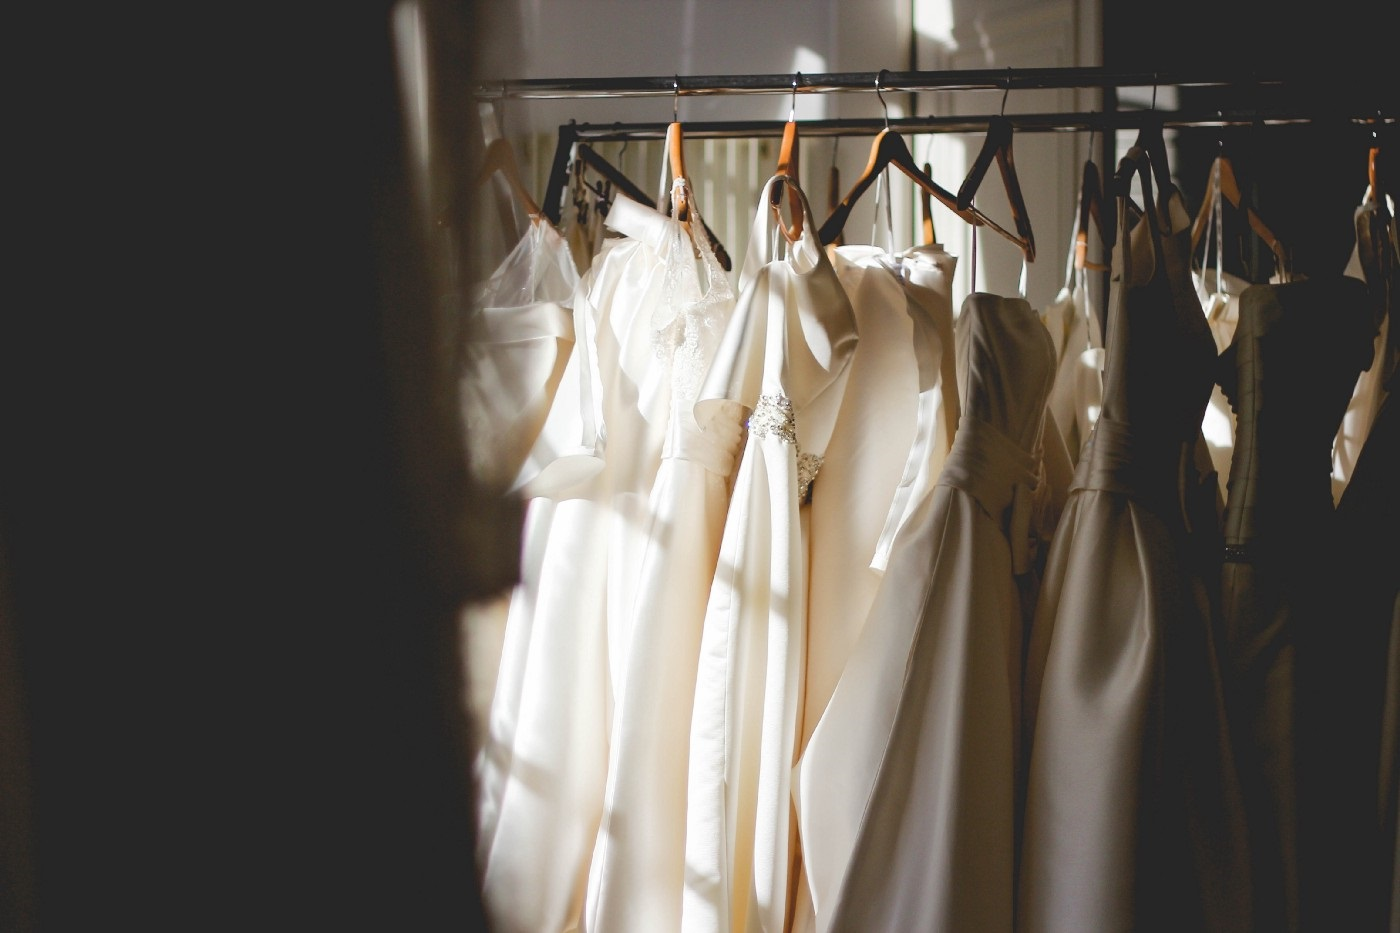
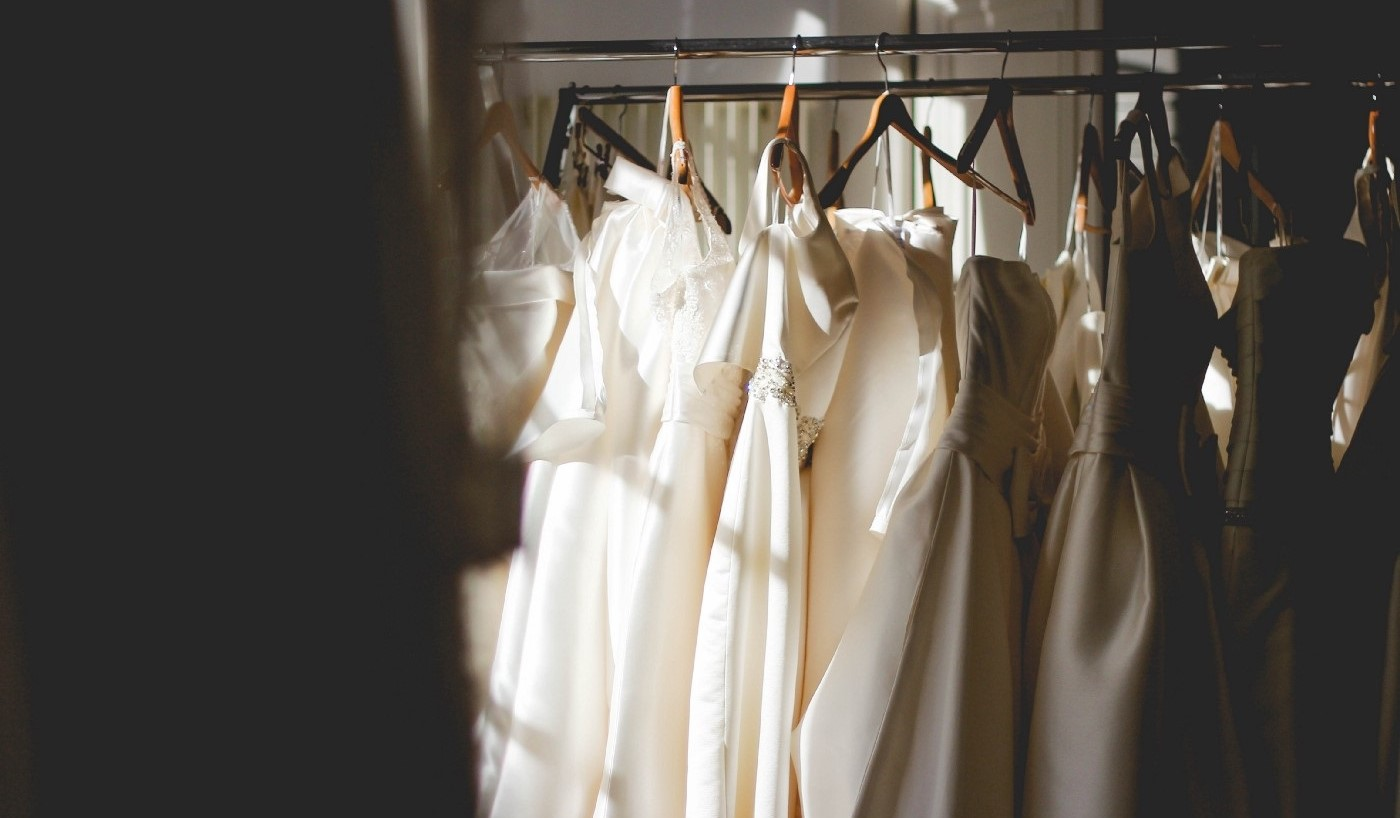
add css to sign up form and resized hero image

diff --git a/style.css b/style.css
@@ -16,13 +16,14 @@ body{
  	min-height: 100vh;
 	display: flex;
 	flex-direction: column;
+	margin: 0;
 }
 
 nav{
 	color: #FAF9F6;
 	display: flex;
 	justify-content: flex-end;
-	margin-right: 24px;
+	margin-right: 64px;
 }
 
 ul{
@@ -32,15 +33,13 @@ ul{
 	list-style-type: none;
 	font-size: 18px;
 }
-
-/* fix bg image*/ 
+ 
 .hero-block{
-	border: solid 1px red;
 	background-color: ##E6DFD9;
 	background-image: url("img/header.jpg");
 	background-size: cover;
 	color: ##28282B;
-	height: 600px;
+	height: 860px;
 	display: flex;
 	flex-direction: row;
 	justify-content: space-between;
@@ -53,16 +52,26 @@ ul{
 	display: flex;
 	flex-direction: column;
 	flex-wrap: wrap;
-	text-align: center;
 	align-items: center;
+}
+
+.hero-left h1{
+	text-align: left;
+	width: 40%;
+	font-size: 48px;
 }
 
 .hero-left p{
 	font-size: 32px;
 	width: 40%;
+	margin: auto 0;
 	text-align: left;
 }
 
+.hero-left button{
+	position: relative;
+	bottom: 15%;
+}
 .shop-here{
 	background: #FAF9F6;
 	font-family: Georgia;
@@ -130,6 +139,11 @@ ul{
 	text-align: left;
 }
 
+.goals-block h2,
+.shop-block h2{
+	padding-left: 62px;
+}
+
 .goals-container{
 	/* border: solid 1px red; */
 	display: flex;
@@ -160,10 +174,7 @@ ul{
 	width: 300px;
 }
 
-.goals-block h2,
-.shop-block h2{
-	padding-left: 62px;
-}
+
 
 /* preview section */
 .shop-block{

diff --git a/index.html b/index.html
@@ -24,16 +24,16 @@
 			<button class="shop-here">shop here</button>
 		</div>
 		<div class="hero-right">
-		
+			<nav>
+				<ul>
+					<li>Shop</li>
+					<li>About Us</li>
+					<li>Contact</li>
+					<li>Cart</li>
+				</ul>
+			</nav>
 		</div>
-		<nav>
-			<ul>
-				<li>Shop</li>
-				<li>About Us</li>
-				<li>Contact</li>
-				<li>Cart</li>
-			</ul>
-		</nav>
+
 	</div>
 
 	<div class="about-block">
@@ -103,7 +103,7 @@
 <footer>
 	<div class="footer-container">
 		<div class="footer-left">
-			
+
 			<form action="index.html" method="get">
 				<label for="email">join our newsletter</label><br>
 				<input type="email" name="email" id="email" value="your email">
@@ -118,7 +118,7 @@
 				<ul>
 					<li>about us</li>
 					<li>careers</li>
-					<li>materials & sourcees</li>
+					<li>materials & sources</li>
 				</ul>
 			</div>
 
